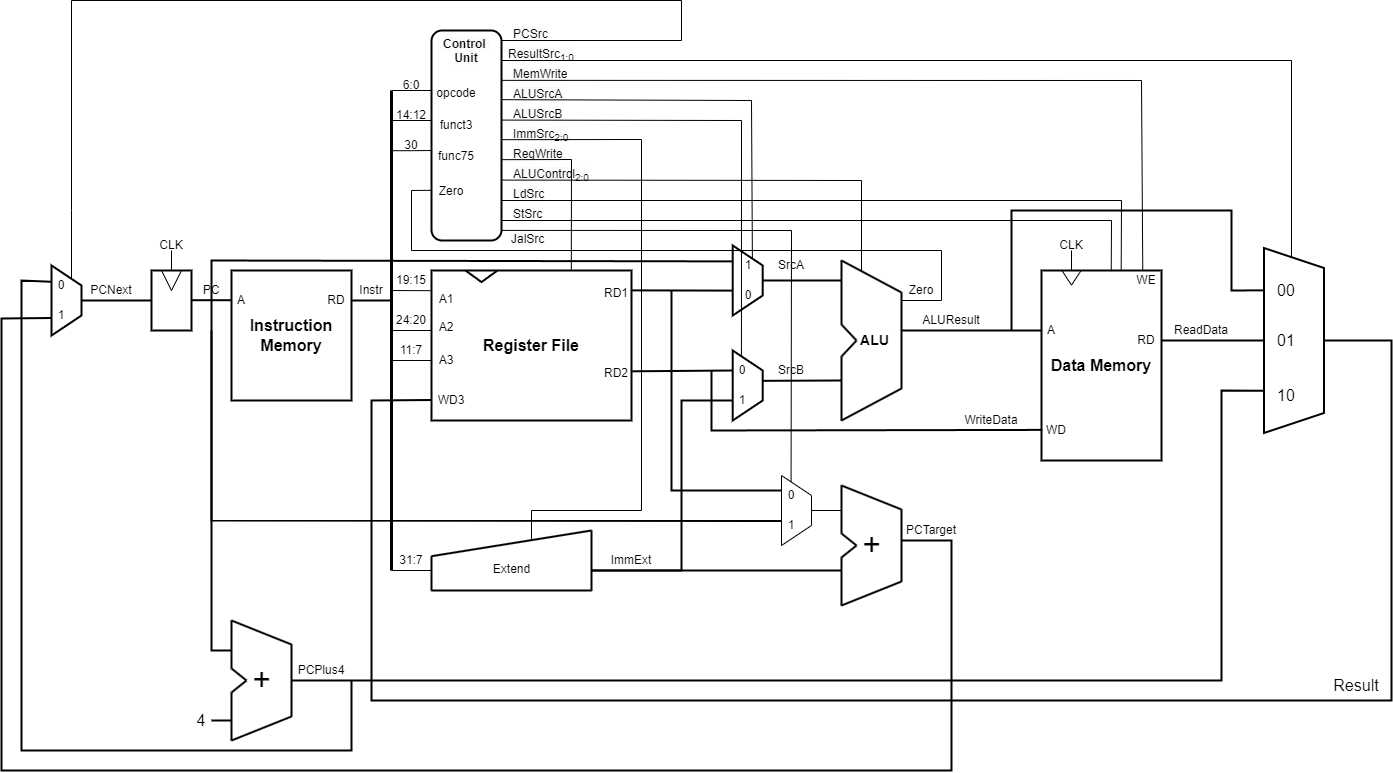
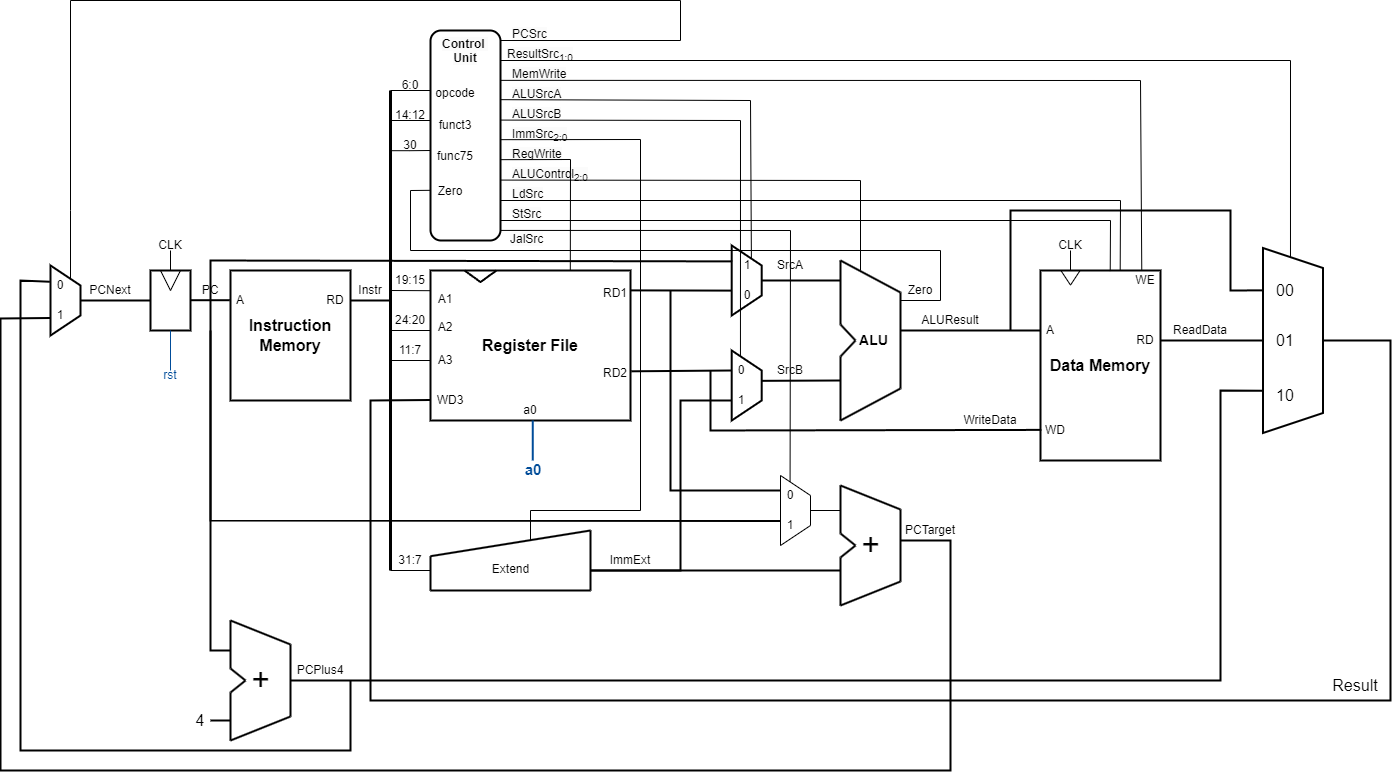
added F1 vs Ref statements

diff --git a/Statements.md b/Statements.md
@@ -11,6 +11,7 @@
     - [Control Unit](#control-unit)
     - [Data Memory](#data-memory)
     - [ALU](#alu)
+    - [Top Level Design](#top-level-design)
     - [Testbench](#testbench)
     - [Shell Script](#shell-script)
     - [Assembly Language (F1)](#assembly-language-f1)
@@ -163,6 +164,8 @@ However, there are special cases in our design where the PC is relocated to a di
 | JAL         | PC = PC + Imm20  |
 | JALR        | PC = RS1 + Imm12 |
 
+What's more, the `rst` signal sets `PC` to the start of the program. Once `rst` is asserted, the value of `PC` becomes `BFC00000`
+
 Operations on the PC can be classified easily, allowing for straightforward implementation in our design.
 
 - A multiplexer (MUX) determines if a Jump or Branch operation is required.
@@ -226,7 +229,7 @@ In summary, the Single Cycle Data Memory is conceptualized as a primary memory w
 
 ![Data Memory](/Images/Data%20Memory.png)
 
-### ALU (Arithmetic Logic Unit)
+### ALU
 The ALU is responsible for executing arithmetic and logic operations. In our design, it processes two inputs, `SrcA` and `SrcB`, to produce the output `ALUResult`. 
 
 A MUX is responsible for selecting the appropriate values for SrcA and SrcB respectively. The possible inputs for `SrcA` are `PC` and `RD1`, while for `SrcB`, they are `RD2` or `ImmExt`. The control logic governing these selections is detailed in the [preceding section](#control-unit).
@@ -238,8 +241,10 @@ Within the ALU, the operations are determined by the `ALUControl[2:0]` signal, a
 |-----------------|-----|----------|-----|-----|----------------|-----|-------------|---------------|
 | ALU Operation   | Add | Subtract | AND | OR  | Shift to Right | XOR | Select SrcB | Shift to Left |
 
+### Top Level Design
+
 ### Testbench
-The design incorporates four top-level signals: `clk`, `a0`, `rst`, and `trigger` (the latter being exclusive to the F1 program).
+In this section we mainly discuss the testbench for Reference Program. The design incorporates three top-level signals: `clk`, `a0`, `rst`. 
 
 In the testbench for the Reference Program, both `clk` and `rst` are initialized to 1. At each clock cycle, `rst` is set to 0, and variables are recorded in a VCD (Value Change Dump) file. A boolean variable, `plot`, is employed to monitor the status of `a0`. If `a0` is non-zero, it signifies that the build process has been completed. Furthermore, the `plot` signal is designed to automatically reset to 0 exactly 960 cycles after it is set to 1.
 
@@ -324,6 +329,71 @@ The algorithm's flow is visually represented in the diagram below, with straight
 </div>
 
 ### F1 Design VS Ref Design
+Upon testing the Single Cycle design on Reference program, the design is modified to accomodate the F1 program as explained above. There are a few points that differs F1 design from Ref Design. 
+
+#### 1. Data Memory
+The Reference Program utilizes `load` and `store` instructions such as `LW` and `SB`. However, the F1 design omits these instructions, resulting in no data being written to or read from the Data Memory.
+
+This design choice is linked to the method of pseudo-random number generation in the F1 program. Before the trigger signal is asserted, the program iterates through a loop generating random numbers.
+
+One alternative could involve pre-generating all random numbers and storing them in the data memory. Subsequently, the program could map the `PC` value to a specific location in the data memory to read the random number. However, `PC` would be a constant value at the point where a random number is requested to be loaded. In this case, this approach would transform the random number into a constant, as a fixed one in random number series would exist for a fixed `PC`. 
+
+Another strategy might be to generate a new random number each time `PC` changes, making the random number a by-product of the varying `PC`. However, this could significantly increase the program's complexity, an unnecessary complication.
+
+For the data memory of the reference program, the diagram below illustrates the memory organization. The `data_array` consists of pre-generated values from memory files like `sine.mem`, while the `pdf_array` represents the accumulation in each "bin." Separate memory segments are allocated for `data_array` and `pdf_array`.
+
+<div align="center">
+  <img src="Images/memory_map.jpg" alt="Memory Map Reference Program">
+</div>
+<p align="center">
+    <span style="color: grey;"> 
+    Cited from 
+        <a href="https://github.com/EIE2-IAC-Labs/Project_Brief/tree/main/reference#new-memory-map">Reference Program</a>
+    </span>
+</p>
+
+#### 2. `Trigger` Signal
+A significant difference between the F1 and Reference Programs is the `trigger` signal. As described in the [Project Brief](https://github.com/EIE2-IAC-Labs/Project_Brief/tree/main?tab=readme-ov-file#learning-the-rv32i-instruction-set), "The trigger signal is used to initiate the F1 light sequence in the RISC-V."
+
+<div align="center">
+  <img src="Images/RISC-V_F1.jpg" alt="F1 Overview">
+</div>
+<p align="center">
+    <span style="color: grey;"> 
+    RV32I F1 Overview, Cited from 
+        <a href="https://github.com/EIE2-IAC-Labs/Project_Brief/tree/main?tab=readme-ov-file#learning-the-rv32i-instruction-set">Project Brief</a>
+    </span>
+</p>
+
+In the `F1.s` assembly program, the `t0` register (`x5`) is used to represent the `Trigger` signal. At the beginning of the `mainloop`, its value is compared with the pre-defined `s1` register to determine if the `trigger` signal has been activated, as depicted in the program extract below.
+
+```s
+# F1.s
+init:
+    addi s1, zero, 0x1      /* trigger destination set as 1 */
+...
+rst:
+...
+    addi t0, zero, 0x0      /* t0 is trigger */
+
+mainloop:
+    beq  t0, s1, light_up   /* trigger? */
+...
+``` 
+
+In physical testing, the push-button switch on the Vbuddy functions as the `trigger`. This is configured in the testbench with the line 
+
+```C++
+top->trigger = vbdFlag();
+``` 
+
+Additionally, Register `t0` in the register file is designated for the trigger signal. Therefore, an extra line is incorporated into `reg_file.sv` to facilitate this:
+```SystemVerilog
+assign     register[5] = trigger;
+```
+#### 3. Testbench
+As mentioned earlier, the F1 Program employs a distinct testbench from that of the Reference Program. In this testbench, the 32-bit output `a0` is transformed into an 8-bit `data_out` by masking the top 24 bits. Subsequently, the `vbdBar()` function is invoked to display `data_out` on the neopixel.
+
 
 
 ## Pipeline Design
